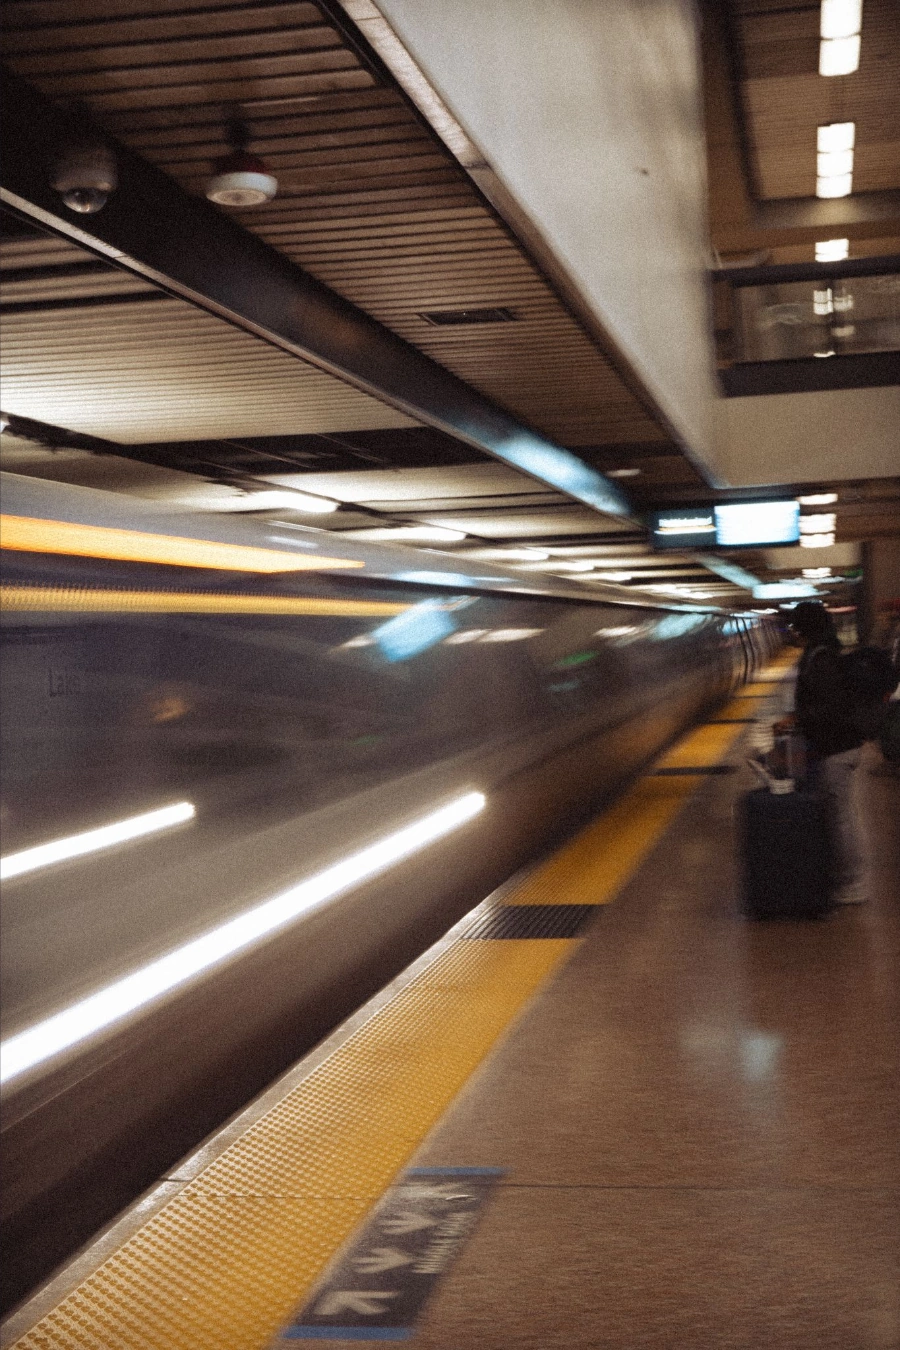
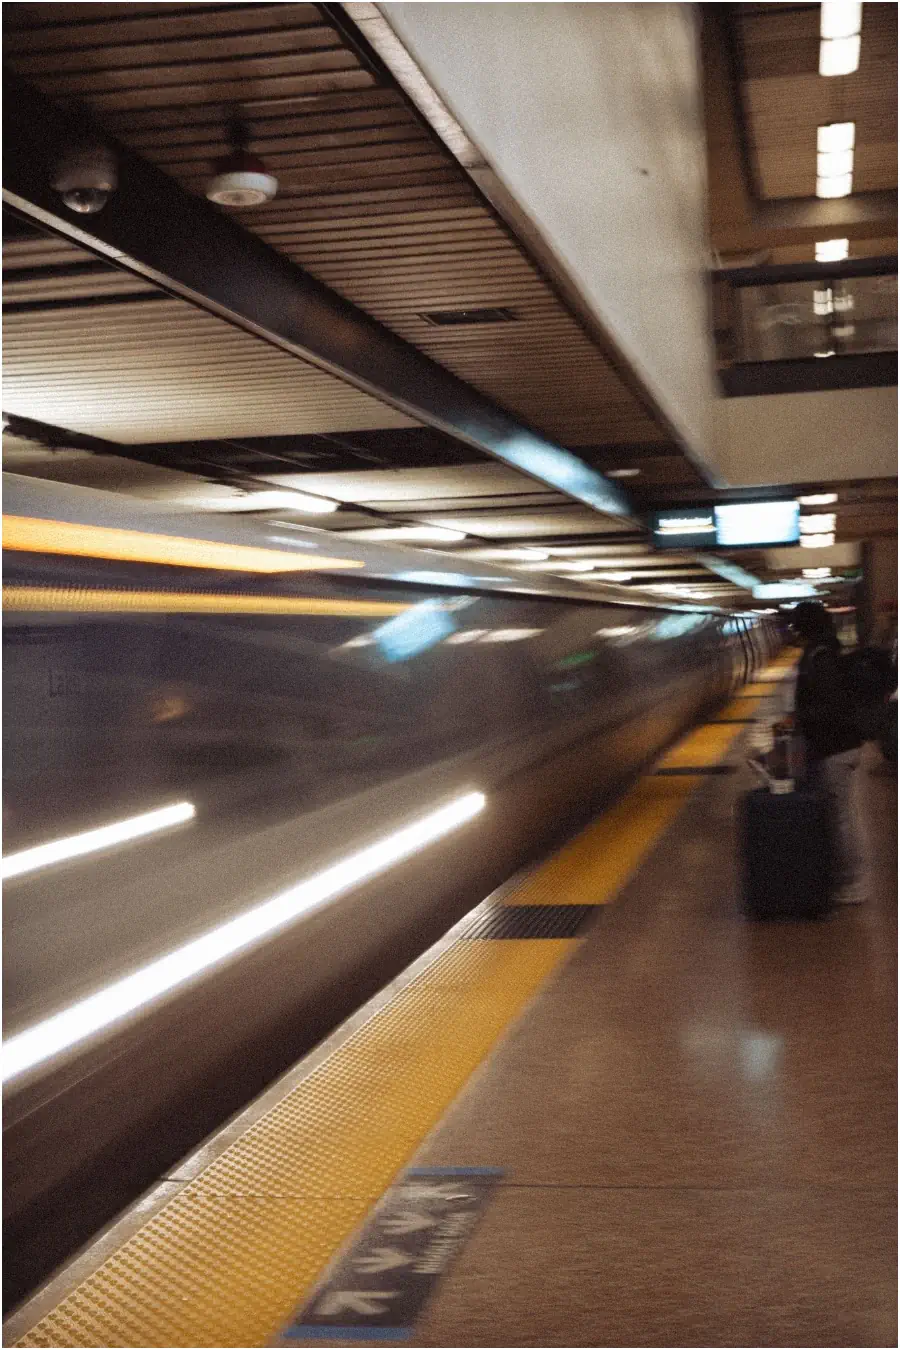
updates

Changed region(s): [[0.0, 0.0, 1.0, 1.0], [0.0, 0.0, 0.0311, 0.0311]]

diff --git a/index.html b/index.html
@@ -1,1 +1,1 @@
-<!doctypehtml><html lang=en-us style=margin:0;overflow:hidden;background-color:#000;color:#fff;width:100%;height:100%;scroll-behavior:smooth><head><meta content="text/html; charset=utf-8"http-equiv=Content-Type><meta content="width=device-width,initial-scale=1"name=viewport><meta charset=utf-8><title>michael liu digital photo</title><link as=font crossorigin href=./ip1.otf rel=preload><link as=font crossorigin href=./ip0.otf rel=preload><meta content=strict-origin-when-cross-origin name=referrer><style>@font-face{font-family:fd;src:url("./ip1.ttf") format("truetype")}@font-face{font-family:fdl;src:url("./ip0.ttf") format("truetype")}a{color:oklch(70.7% .165 254.624)}.clb{border-radius:4rem;border:.175rem solid #fff;background-color:#000;color:#fff;padding:.5rem;padding-left:1rem;padding-right:1rem;font:1rem fd,sans-serif;transition:transform .1s ease-in-out}.clb:hover{transform:scale(105%);cursor:pointer}.smooth-opacity{transition:opacity .5s ease-out}.tiny-page{width:75vw;height:100vh;padding-left:12.5vw;display:flex;flex-direction:row}.half{width:50%;height:100%;display:flex;flex-direction:column;place-content:center;align-content:center;align-items:center}.mid{width:100%;height:100%;display:flex;flex-direction:column;place-content:center;align-content:center;align-items:center}</style></head><body style=margin:0;overflow:hidden;background-color:#000;position:relative;width:100%;height:100%><canvas class=smooth-opacity id=canvas style=display:none;opacity:0;margin:auto;position:absolute;top:0;left:0></canvas><div style=display:none;opacity:0;margin:auto;position:absolute;top:0;left:0;width:100%;align-content:center class=smooth-opacity id=tiny><div style=position:relative class=tiny-page><div class=half><img src=14.jpg style=width:50%;aspect-ratio:1></div><div class=half><div style="font:1.75rem fd,sans-serif;width:100%">about me!</div><div style="font:1rem fdl,sans-serif"><p>i'm currently a senior at mission san jose high school in fremont, california. i love taking photos of anything that looks interesting to me: nature, technology, architecture, people, or even a combination of all those things! in addition, i'm passionate about graphic design and 3d modeling.</p><p>outside of photography, i'm an avid coder and i love running, biking, and taking public transport. you'll also find me restoring vintage computers and keyboards in my spare time.</p><p>welcome to my portfolio! please enjoy this collection of my artwork from my digital photography class and from hobby :D</p><p><a href=#essay>photo essay.</a> | <a href=#objects>objects.</a> | <a href=#artsy>abstract.</a> | <a href=#blender>rendered.</a> | <a href=#resume>resume</a></p></div></div></div><div style=position:relative class=tiny-page id=essay><div class=half><div style=display:grid;grid-template-columns:repeat(6,auto);grid-template-rows:repeat(2,auto);width:66%;gap:1rem><img src=9.webp style="grid-column:1/span 2;grid-row:1;max-width:100%"loading=lazy><img src=10.webp style="grid-column:3/span 2;grid-row:1;max-width:100%"loading=lazy><img src=11.webp style="grid-column:5/span 2;grid-row:1;max-width:100%"loading=lazy><img src=12.webp style="grid-column:2/span 2;grid-row:2;max-width:100%"loading=lazy><img src=13.webp style="grid-column:4/span 2;grid-row:2;max-width:100%"loading=lazy></div></div><div class=half><div style="font:1.75rem fdl,sans-serif;width:100%">you take public transit? <span style="font:1.75rem fd,sans-serif">that tracks.</span></div><div style="font:1rem fdl,sans-serif"><p>this is a photo essay i created to submit to the 2026 kqed youth media challenge. it centers upon BART, the rapid transport system that we have in the bay area. as mentioned in my bio above, i really do love taking public transport — i think it's a system that should be treasured and loved, not neglected and stigmatized.</p><p>i set out to create with writing and photography a story that tells why i love taking public transit, why it's important to have in our modern society, and what it means to the bay area community.</p><p>you can see the photo essay here: <a href=https://youthmedia.kqed.org/submission/Njk3MTNhMTE1ZjQ1NDczN2M2OWE1NzNi>https://youthmedia.kqed.org/submission/Njk3MTNhMTE1ZjQ1NDczN2M2OWE1NzNi</a></p><p></p></div></div></div><div class=tiny-page id=objects><div class=half><div style=display:grid;grid-template-columns:repeat(3,auto);grid-template-rows:auto;width:75%;gap:1rem;place-items:center><img src=1.webp style=grid-column:1;grid-row:1;max-width:100% loading=lazy><img src=7.webp style=grid-column:2;grid-row:1;max-width:100% loading=lazy><img src=0.webp style=grid-column:3;grid-row:1;max-width:100% loading=lazy></div></div><div class=half><div style="font:1.75rem fd,sans-serif;width:100%">objects.</div><div style="font:1rem fdl,sans-serif;width:100%"><p style=width:100%>it's fun to capture the beauty of everyday objects. there's a lot of effort that people put into designing computers, vases, lights, cups, and whatever you see around you. that effort deserves to be enjoyed and appreciated.</p><p style=width:100%>i think that there's a certain feeling that you can get when looking at something — a feeling that you are in the designer's shoes, as if you are looking at that object for the first time after creating something great — that gets amplified when you take photos of those objects. one tries to find the angles from which the object looks stunning, and in doing so, one begins to understand at a deeper level the decisions the designer made when designing said object.</p></div></div></div><div class=tiny-page id=artsy><div class=half><div style="display:grid;grid-template-columns:2.193fr 1fr;grid-template-rows:auto;height:50%;width:75%;max-width:75%;gap:1rem;place-items:center"><img src=2.webp style=grid-column:1;grid-row:1;max-height:100%;max-width:100% loading=lazy><img src=5.webp style=grid-column:2;grid-row:1;max-height:100%;max-width:100% loading=lazy></div></div><div class=half><div style="font:1.75rem fd,sans-serif;width:100%">abstract.</div><div style="font:1rem fdl,sans-serif;width:100%"><p style=width:100%>abstract things are beautiful too. there's so much that modern photo editing tools allow us to accomplish with colors, designs, and text, and i love leveraging those abilities to their fullest extent. even if that means sacrificing a bit of reality.</p><p style=width:100%>pareidolia is the mental process through which the mind tries to find familiar objects in unfamiliar stimuli. it's possible to destroy all visual clarity at the micro scale while preserving the image as a whole at the macro scale, and i think that's amazing.</p></div></div></div><div class=tiny-page id=blender><div class=half><div style="display:grid;grid-template-columns:1.293fr 1fr;grid-template-rows:auto;height:50%;width:75%;max-width:75%;gap:1rem;place-items:center"><img src=6.webp style=grid-column:1;grid-row:1;max-height:100%;max-width:100% loading=lazy><img src=8.webp style=grid-column:2;grid-row:1;max-height:100%;max-width:100% loading=lazy></div></div><div class=half><div style="font:1.75rem fd,sans-serif;width:100%">rendered.</div><div style="font:1rem fdl,sans-serif;width:100%"><p style=width:100%>i love free software. blender has been shareware since 1998, and it's just wonderful. though the learning curve is steep, the fact that i could make anything with it made me stick with it. blender really allows anyone to create virtual worlds — whether realistic or not — in the way that they want. i love it!</p></div></div></div><div class=tiny-page id=resume><div class=mid><script>let oldScrollTo=window.scrollTo;window.scrollTo=function(){}</script><object data=resume.pdf onload="setTimeout((()=>window.scrollTo=oldScrollTo),400)"style=width:85%;height:75%></object></div></div></div><div style=display:flex;flex-direction:column;margin:auto;position:absolute;top:0;left:0;width:100vw;height:100vh;align-items:center;place-content:center;align-content:center class=smooth-opacity id=main><div style="font:1.75rem fd,sans-serif">michael liu</div><div style=padding-top:.5rem></div><div style="font:1rem fdl,sans-serif">digital photography, graphic design, 3d modeling</div><div style=padding-top:1rem></div><div style=gap:1rem;display:flex;flex-direction:row><button class=clb id=webgpu-button onclick=loadWasm()>webgpu site</button> <button class=clb id=tiny-button onclick=loadTiny()>tiny site</button></div></div><script>var Module={};let canvas=document.querySelector("canvas");function resizeCanvas(){canvas.style.width=window.innerWidth+"px",canvas.style.height=window.innerHeight+"px",canvas.isOffscreen||(canvas.width=Math.round(window.innerWidth*window.devicePixelRatio),canvas.height=Math.round(window.innerHeight*window.devicePixelRatio)),window.resizeCallback&&getWasmTableEntry(window.resizeCallback)()}function loadWasm(){document.getElementById("webgpu-button").onclick=function(){};var e=e=>fetch(e).then((e=>e.arrayBuffer()));Promise.all([e("index.js"),e("index.wasm")]).then((e=>{Module.wasm=e[1];var n=URL.createObjectURL(new Blob([e[0]],{type:"application/javascript"}));(function(e){return new Promise((n=>{var t=document.createElement("script");t.src=e,t.onload=()=>{n()},document.body.appendChild(t)}))})(n).then((()=>URL.revokeObjectURL(n)))})),document.querySelector("body").style.overflow="hidden",document.querySelector("html").style.overflow="hidden",document.querySelector("#main").style.opacity="0",setTimeout((function(){document.querySelector("#main").style.display="none"}),500),document.querySelector("#canvas").style.display="block",document.querySelector("#canvas").style.opacity="100%"}function loadTiny(){document.getElementById("tiny-button").onclick=function(){},document.querySelector("body").style.overflowY="scroll",document.querySelector("#main").style.opacity="0",document.querySelector("#tiny").style.display="block",setTimeout((function(){document.querySelector("#main").style.display="none",document.querySelector("#tiny").style.opacity="100%"}),500)}location.search.includes("windowed")||(resizeCanvas(),onresize=resizeCanvas)</script></body><link as=image crossorigin href=./0.webp rel=preload><link as=image crossorigin href=./1.webp rel=preload><link as=image crossorigin href=./2.webp rel=preload><link as=image crossorigin href=./3.webp rel=preload><link as=image crossorigin href=./4.webp rel=preload><link as=image crossorigin href=./5.webp rel=preload><link as=image crossorigin href=./6.webp rel=preload><link as=image crossorigin href=./7.webp rel=preload><link as=image crossorigin href=./8.webp rel=preload><link as=image crossorigin href=./9.webp rel=preload><link as=image crossorigin href=./10.webp rel=preload><link as=image crossorigin href=./11.webp rel=preload><link as=image crossorigin href=./12.webp rel=preload><link as=image crossorigin href=./13.webp rel=preload></html>
+<!doctypehtml><html lang=en-us style=margin:0;overflow:hidden;background-color:#000;color:#fff;width:100%;height:100%;scroll-behavior:smooth><head><meta content="text/html; charset=utf-8"http-equiv=Content-Type><meta content="width=device-width,initial-scale=1"name=viewport><meta charset=utf-8><title>michael liu digital photo</title><link as=font crossorigin href=./ip1.otf rel=preload><link as=font crossorigin href=./ip0.otf rel=preload><meta content=strict-origin-when-cross-origin name=referrer><style>@font-face{font-family:fd;src:url("./ip1.ttf") format("truetype")}@font-face{font-family:fdl;src:url("./ip0.ttf") format("truetype")}a{color:oklch(70.7% .165 254.624)}.clb{border-radius:4rem;border:.175rem solid #fff;background-color:#000;color:#fff;padding:.5rem;padding-left:1rem;padding-right:1rem;font:1rem fd,sans-serif;transition:transform .1s ease-in-out}.clb:hover{transform:scale(105%);cursor:pointer}.smooth-opacity{transition:opacity .5s ease-out}.tiny-page{width:75vw;height:100vh;padding-left:12.5vw;display:flex;flex-direction:row}.half{width:50%;height:100%;display:flex;flex-direction:column;place-content:center;align-content:center;align-items:center}.mid{width:100%;height:100%;display:flex;flex-direction:column;place-content:center;align-content:center;align-items:center}img{box-sizing:border-box;-moz-box-sizing:border-box;-webkit-box-sizing:border-box;border:.0125rem solid #fff}</style></head><body style=margin:0;overflow:hidden;background-color:#000;position:relative;width:100%;height:100%><canvas class=smooth-opacity id=canvas style=display:none;opacity:0;margin:auto;position:absolute;top:0;left:0></canvas><div style=display:none;opacity:0;margin:auto;position:absolute;top:0;left:0;width:100%;align-content:center class=smooth-opacity id=tiny><div style=position:relative class=tiny-page><div class=half><img src=14.webp style=width:50%;aspect-ratio:1></div><div class=half><div style="font:1.75rem fd,sans-serif;width:100%">about me!</div><div style="font:1rem fdl,sans-serif"><p>i'm currently a senior at mission san jose high school in fremont, california. i love taking photos of anything that looks interesting to me: nature, technology, architecture, people, or even a combination of all those things! in addition, i'm passionate about graphic design and 3d modeling.</p><p>outside of photography, i'm an avid coder and i love running, biking, and taking public transport. you'll also find me restoring vintage computers and keyboards in my spare time.</p><p>welcome to my portfolio! please enjoy this collection of my artwork from my digital photography class and from hobby :D</p><p><a href=#essay>photo essay.</a> | <a href=#objects>objects.</a> | <a href=#artsy>abstract.</a> | <a href=#blender>rendered.</a> | <a href=#resume>resume</a></p></div></div></div><div style=position:relative class=tiny-page id=essay><div class=half><div style=display:grid;grid-template-columns:repeat(6,auto);grid-template-rows:repeat(2,auto);width:66%;gap:1rem><img src=9.webp style="grid-column:1/span 2;grid-row:1;max-width:100%"loading=lazy><img src=10.webp style="grid-column:3/span 2;grid-row:1;max-width:100%"loading=lazy><img src=11.webp style="grid-column:5/span 2;grid-row:1;max-width:100%"loading=lazy><img src=12.webp style="grid-column:2/span 2;grid-row:2;max-width:100%"loading=lazy><img src=13.webp style="grid-column:4/span 2;grid-row:2;max-width:100%"loading=lazy></div></div><div class=half><div style="font:1.75rem fdl,sans-serif;width:100%">you take public transit? <span style="font:1.75rem fd,sans-serif">that tracks.</span></div><div style="font:1rem fdl,sans-serif"><p>this is a photo essay i created to submit to the 2026 kqed youth media challenge. it centers upon BART, the rapid transport system that we have in the bay area. as mentioned in my bio above, i really do love taking public transport — i think it's a system that should be treasured and loved, not neglected and stigmatized.</p><p>i set out to create with writing and photography a story that tells why i love taking public transit, why it's important to have in our modern society, and what it means to the bay area community.</p><p>you can see the photo essay here: <a href=https://youthmedia.kqed.org/submission/Njk3MTNhMTE1ZjQ1NDczN2M2OWE1NzNi>https://youthmedia.kqed.org/submission/Njk3MTNhMTE1ZjQ1NDczN2M2OWE1NzNi</a></p><p></p></div></div></div><div class=tiny-page id=objects><div class=half><div style=display:grid;grid-template-columns:repeat(3,auto);grid-template-rows:auto;width:75%;gap:1rem;place-items:center><img src=1.webp style=grid-column:1;grid-row:1;max-width:100% loading=lazy><img src=7.webp style=grid-column:2;grid-row:1;max-width:100% loading=lazy><img src=0.webp style=grid-column:3;grid-row:1;max-width:100% loading=lazy></div></div><div class=half><div style="font:1.75rem fd,sans-serif;width:100%">objects.</div><div style="font:1rem fdl,sans-serif;width:100%"><p style=width:100%>it's fun to capture the beauty of everyday objects. there's a lot of effort that people put into designing computers, vases, lights, cups, and whatever you see around you. that effort deserves to be enjoyed and appreciated.</p><p style=width:100%>i think that there's a certain feeling that you can get when looking at something — a feeling that you are in the designer's shoes, as if you are looking at that object for the first time after creating something great — that gets amplified when you take photos of those objects. one tries to find the angles from which the object looks stunning, and in doing so, one begins to understand at a deeper level the decisions the designer made when designing said object.</p></div></div></div><div class=tiny-page id=artsy><div class=half><div style="display:grid;grid-template-columns:2.193fr 1fr;grid-template-rows:auto;height:50%;width:75%;max-width:75%;gap:1rem;place-items:center"><img src=2.webp style=grid-column:1;grid-row:1;max-height:100%;max-width:100% loading=lazy><img src=5.webp style=grid-column:2;grid-row:1;max-height:100%;max-width:100% loading=lazy></div></div><div class=half><div style="font:1.75rem fd,sans-serif;width:100%">abstract.</div><div style="font:1rem fdl,sans-serif;width:100%"><p style=width:100%>abstract things are beautiful too. there's so much that modern photo editing tools allow us to accomplish with colors, designs, and text, and i love leveraging those abilities to their fullest extent. even if that means sacrificing a bit of reality.</p><p style=width:100%>pareidolia is the mental process through which the mind tries to find familiar objects in unfamiliar stimuli. it's possible to destroy all visual clarity at the micro scale while preserving the image as a whole at the macro scale, and i think that's amazing.</p></div></div></div><div class=tiny-page id=blender><div class=half><div style="display:grid;grid-template-columns:1.293fr 1fr;grid-template-rows:auto;height:50%;width:75%;max-width:75%;gap:1rem;place-items:center"><img src=6.webp style=grid-column:1;grid-row:1;max-height:100%;max-width:100% loading=lazy><img src=8.webp style=grid-column:2;grid-row:1;max-height:100%;max-width:100% loading=lazy></div></div><div class=half><div style="font:1.75rem fd,sans-serif;width:100%">rendered.</div><div style="font:1rem fdl,sans-serif;width:100%"><p style=width:100%>i love free software. blender has been shareware since 1998, and it's just wonderful. though the learning curve is steep, the fact that i could make anything with it made me stick with it. blender really allows anyone to create virtual worlds — whether realistic or not — in the way that they want. i love it!</p></div></div></div><div class=tiny-page id=resume><div class=mid><script>let oldScrollTo=window.scrollTo;window.scrollTo=function(){}</script><object data=resume.pdf onload="setTimeout((()=>window.scrollTo=oldScrollTo),400)"style=width:85%;height:75%></object></div></div></div><div style=display:flex;flex-direction:column;margin:auto;position:absolute;top:0;left:0;width:100vw;height:100vh;align-items:center;place-content:center;align-content:center class=smooth-opacity id=main><div style="font:1.75rem fd,sans-serif">michael liu</div><div style=padding-top:.5rem></div><div style="font:1rem fdl,sans-serif">digital photography, graphic design, 3d modeling</div><div style=padding-top:1rem></div><div style=gap:1rem;display:flex;flex-direction:row><button class=clb id=webgpu-button onclick=loadWasm()>webgpu site</button> <button class=clb id=tiny-button onclick=loadTiny()>tiny site</button></div></div><script>var Module={};let canvas=document.querySelector("canvas");function resizeCanvas(){canvas.style.width=window.innerWidth+"px",canvas.style.height=window.innerHeight+"px",canvas.isOffscreen||(canvas.width=Math.round(window.innerWidth*window.devicePixelRatio),canvas.height=Math.round(window.innerHeight*window.devicePixelRatio)),window.resizeCallback&&getWasmTableEntry(window.resizeCallback)()}function loadWasm(){document.getElementById("webgpu-button").onclick=function(){};var e=e=>fetch(e).then((e=>e.arrayBuffer()));Promise.all([e("index.js"),e("index.wasm")]).then((e=>{Module.wasm=e[1];var n=URL.createObjectURL(new Blob([e[0]],{type:"application/javascript"}));(function(e){return new Promise((n=>{var t=document.createElement("script");t.src=e,t.onload=()=>{n()},document.body.appendChild(t)}))})(n).then((()=>URL.revokeObjectURL(n)))})),document.querySelector("body").style.overflow="hidden",document.querySelector("html").style.overflow="hidden",document.querySelector("#main").style.opacity="0",setTimeout((function(){document.querySelector("#main").style.display="none"}),500),document.querySelector("#canvas").style.display="block",document.querySelector("#canvas").style.opacity="100%"}function loadTiny(){document.getElementById("tiny-button").onclick=function(){},document.querySelector("body").style.overflowY="scroll",document.querySelector("#main").style.opacity="0",document.querySelector("#tiny").style.display="block",setTimeout((function(){document.querySelector("#main").style.display="none",document.querySelector("#tiny").style.opacity="100%"}),500)}location.search.includes("windowed")||(resizeCanvas(),onresize=resizeCanvas)</script></body><link as=image crossorigin href=./0.webp rel=preload><link as=image crossorigin href=./1.webp rel=preload><link as=image crossorigin href=./2.webp rel=preload><link as=image crossorigin href=./3.webp rel=preload><link as=image crossorigin href=./4.webp rel=preload><link as=image crossorigin href=./5.webp rel=preload><link as=image crossorigin href=./6.webp rel=preload><link as=image crossorigin href=./7.webp rel=preload><link as=image crossorigin href=./8.webp rel=preload><link as=image crossorigin href=./9.webp rel=preload><link as=image crossorigin href=./10.webp rel=preload><link as=image crossorigin href=./11.webp rel=preload><link as=image crossorigin href=./12.webp rel=preload><link as=image crossorigin href=./13.webp rel=preload></html>
